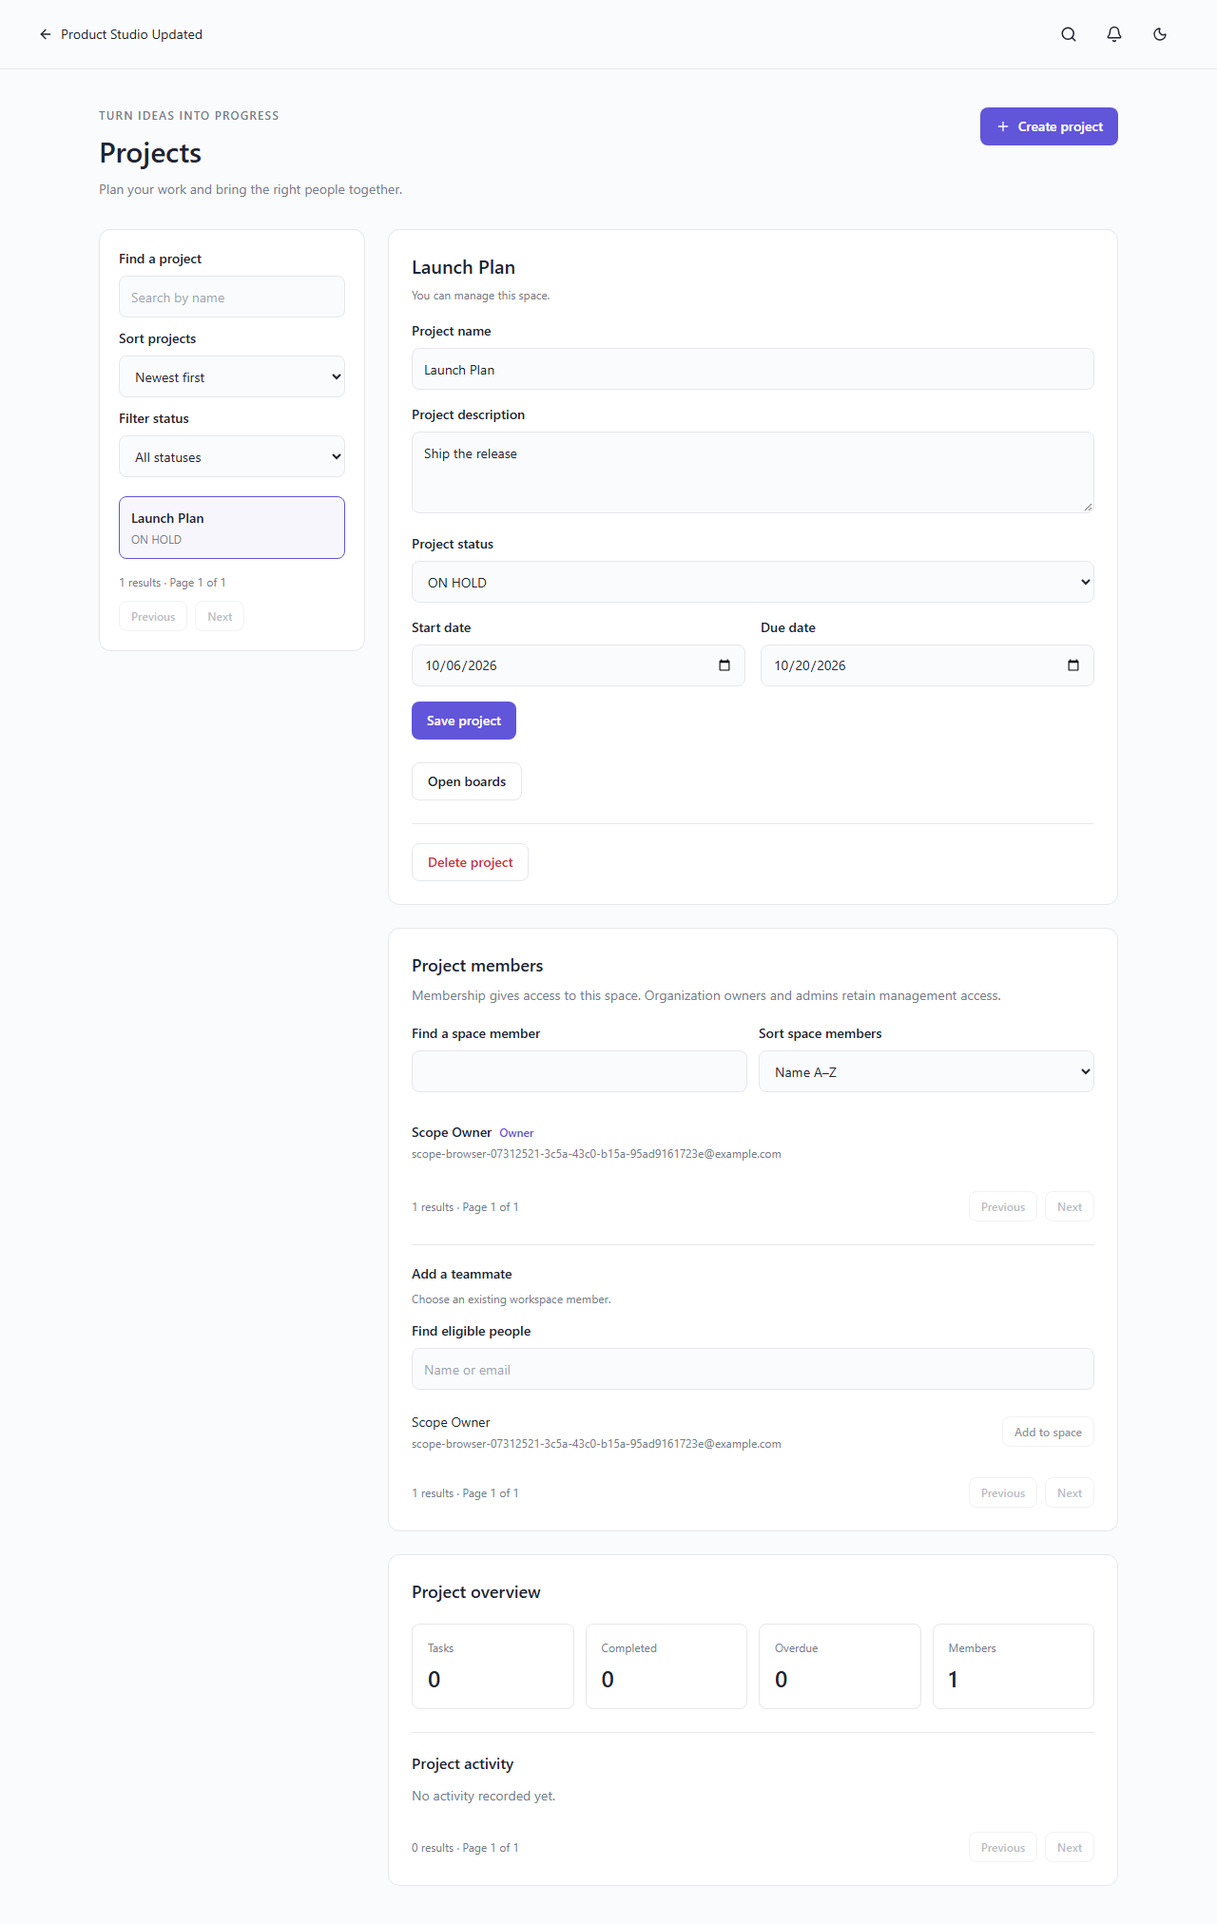
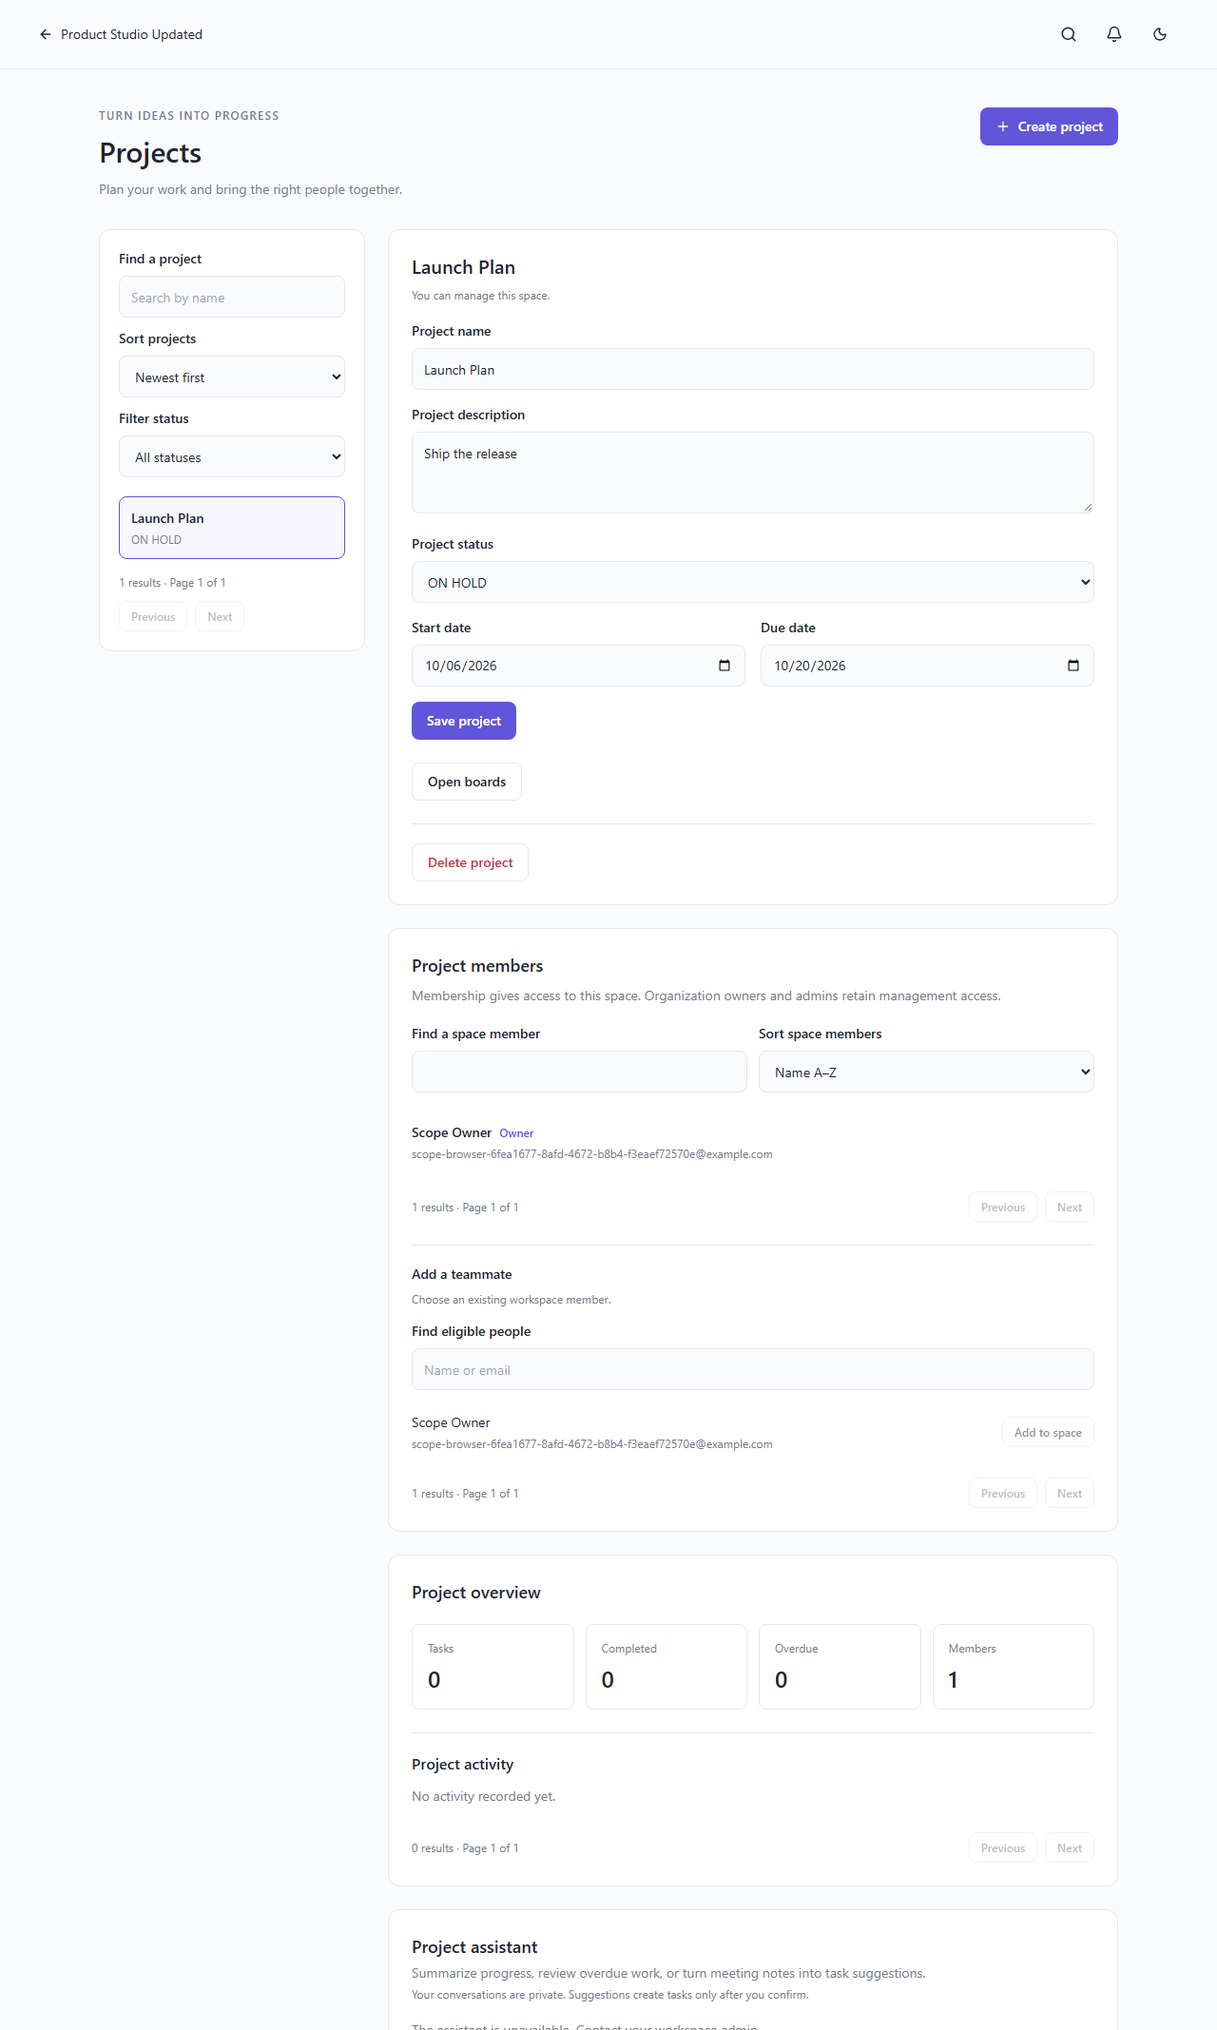
docs(ai): record verified private assistant milestone

diff --git a/docs/verification.md b/docs/verification.md
@@ -1,19 +1,19 @@
-# Phase 7 verification — 06/10/2026
+# Phase 8 verification — 06/10/2026
 
-Đã hoàn thành Phase 1–7 theo Requirements.md và luồng MVP ở mục 34. AI và production deployment đang tiếp tục.
+Đã hoàn thành implementation Phase 1–8 theo Requirements.md và luồng MVP ở mục 34. AI đã kiểm tra với provider fixtures; live provider smoke và production deployment đang tiếp tục.
 
-| Check                       | Kết quả                                                                                           |
-| --------------------------- | ------------------------------------------------------------------------------------------------- |
-| Prisma schema validation    | Pass, Prisma 7.10.0                                                                               |
-| SQL migrations              | Foundation + organization policy + invitation outbox/environment applied; Docker migration exit 0 |
-| TypeScript strict typecheck | Pass cho contracts, API, web                                                                      |
-| ESLint / Prettier           | Pass                                                                                              |
-| Production build            | Pass cho Next.js và NestJS                                                                        |
-| Unit/security tests         | 24 pass: auth, RBAC, contracts, mention parsing, encryption and attachment content validation     |
-| HTTP integration tests      | 75 pass on real PostgreSQL/Redis/MinIO/Mailpit                                                    |
-| Browser tests               | 9 verified on local builds and Linux Docker containers                                            |
-| Docker targets              | API, web, migrator, worker và source-built MinIO build thành công                                 |
-| Compose runtime             | API/PostgreSQL/Redis/MinIO/Mailpit healthy; web/worker chạy; init exit 0                          |
+| Check                       | Kết quả                                                                                                    |
+| --------------------------- | ---------------------------------------------------------------------------------------------------------- |
+| Prisma schema validation    | Pass, Prisma 7.10.0                                                                                        |
+| SQL migrations              | 10 checked-in migrations applied, including durable AI jobs; Docker migration exit 0                       |
+| TypeScript strict typecheck | Pass cho contracts, API, web                                                                               |
+| ESLint / Prettier           | Pass                                                                                                       |
+| Production build            | Pass cho Next.js và NestJS                                                                                 |
+| Unit/security tests         | 28 pass: AI adapters, auth, RBAC, contracts, mention parsing, encryption and attachment content validation |
+| HTTP integration tests      | 87 pass on real PostgreSQL/Redis/MinIO/Mailpit                                                             |
+| Browser tests               | 10 verified on local builds and Linux Docker containers                                                    |
+| Docker targets              | API, web, migrator, worker và source-built MinIO build thành công                                          |
+| Compose runtime             | API/PostgreSQL/Redis/MinIO/Mailpit healthy; web/worker chạy; init exit 0                                   |
 
 HTTP tests kiểm tra auth/rotation/replay/throttling, organization CRUD, cross-tenant isolation, role/owner protection, concurrent ownership transfer, invite duplicate/expiry/revoke/email mismatch/concurrent accept/reuse, email SMTP thật và ảnh giả MIME/oversize/private object. Browser kiểm tra auth/dark mode/mobile; create/settings/logo/delete organization; role/removal/transfer bằng hai tài khoản; email capture → matching-email registration → accept → replay rejection. Dialog dùng native focus trap/Escape và ID label riêng.
 
@@ -23,7 +23,7 @@ Stack hiện chạy ở web http://localhost:3100, API http://localhost:4000/api
 
 Sau khi người dùng khắc phục dung lượng ổ C, đã build và chạy lại các container Phase 2 thành công. Các build loại browser artifacts/screenshots khỏi context; runtime API chỉ cài dependencies backend/contracts. Không xóa volumes hoặc containers của dự án khác.
 
-Repository đã kết nối [GitHub FlowSync](https://github.com/itzBaowy/FlowSync), branch `main`; commit/push theo từng lát. CI Linux của code Phase 2 ở commit `160d2bf` [đã xanh](https://github.com/itzBaowy/FlowSync/actions/runs/37342707321). Các commit mới tự chạy CI; run của `ee3e656` đang in progress tại lần kiểm tra. Chưa provision cloud deployment. Cross-tab refresh coordination, password recovery/email verification và full bucket reconciliation còn ở các milestone hardening.
+Repository đã kết nối [GitHub FlowSync](https://github.com/itzBaowy/FlowSync), branch `main`; commit/push theo từng lát. CI Linux của code Phase 2 ở commit `160d2bf` [đã xanh](https://github.com/itzBaowy/FlowSync/actions/runs/37342707321). Các commit mới tự chạy CI; run của `cd83d20` đang in progress tại lần kiểm tra. Chưa provision cloud deployment. Cross-tab refresh coordination, password recovery/email verification và full bucket reconciliation còn ở các milestone hardening.
 
 Phase 3 verifies workspace/project CRUD, private memberships, persisted date invariants, ownership concurrency, public profiles, descendant cleanup, structural delete protection and actual overview data. Browser tests cover CRUD/mobile and two-account membership/owner transfer/access revocation. Delivery outboxes are isolated by NODE_ENV.
 
@@ -34,3 +34,5 @@ Phase 5 verifies authenticated Socket.IO, Redis fanout between API replicas, pos
 Phase 6 verifies scoped comments/mentions and version conflicts, transactional activity retention/rollback, private attachment upload/download/deletion/compensation, global search privacy, assignment scope and actual dashboard aggregates. The full browser suite passes on local production builds and Linux Docker containers. See [Phase 6](phase6.md).
 
 Phase 7 verifies real SMTP failure/retry/restart, deduplicated reminders/email, notification permission checks at delivery, scoped workspace/project alerts, invalid payload failures, environment retention and safe file cleanup. Docker worker starts all queues; CLI status runs inside container and all 9 browser flows pass again. See [Phase 7](phase7.md).
+
+Phase 8 verifies validated provider adapters, private bounded context, overdue priority sampling, durable queued requests, permission revocation, safe failure/retry, confirmation batch rollback and concurrent idempotency. All 10 browser flows pass on local builds and Docker; worker queue status is verified. No live LLM credentials were used. See [Phase 8](phase8.md).

diff --git a/README.md b/README.md
@@ -1,8 +1,8 @@
 # FlowSync
 
-A team collaboration platform bringing projects, Kanban boards, conversations, and a future AI assistant into one calm workspace. Built as a fullstack engineering portfolio with explicit tenant boundaries and production deployment in mind.
+A team collaboration platform bringing projects, Kanban boards, conversations, and a private AI assistant into one calm workspace. Built as a fullstack engineering portfolio with explicit tenant boundaries and production deployment in mind.
 
-**Current delivery: Phase 7 — durable background jobs; Phase 8 in progress.** Collaboration MVP, private task/project/workspace notifications, due reminders, email delivery and file cleanup now run with retry and operator recovery.
+**Current delivery: Phase 8 — private project assistant; Phase 9 in progress.** Summary/overdue analysis and meeting-note previews use validated, scoped context. Tasks are created only after user selection and explicit confirmation.
 
 ## Features shipped
 
@@ -20,6 +20,7 @@ A team collaboration platform bringing projects, Kanban boards, conversations, a
 - Global search across accessible tasks, projects, organization members and comments. Assigned task filters and actual dashboard counts, recent projects/activity, task completion and priority charts.
 - Single-use, seven-day invitations with matching-email acceptance. Durable encrypted delivery outbox, BullMQ retry worker and local Mailpit SMTP capture.
 - Transactional notification email outboxes and versioned due reminders; file cleanup workers, scoped retention, failed-job status and manual recovery commands. See [Phase 7 operations](docs/phase7.md).
+- Private queued AI requests with OpenAI/Gemini adapters, strict output validation, bounded project context and atomic confirmed task creation. See [Phase 8](docs/phase8.md); live provider credential smoke testing remains pending.
 - PostgreSQL + Prisma 7 schema for the complete planned domain, checked-in initial migration.
 - Docker Compose PostgreSQL, Redis, private MinIO bucket, Mailpit, migration job, frontend, backend and worker containers. Random local secrets generated by setup.
 - Security unit tests, real-service HTTP integration tests, browser account/organization/invitation tests and CI workflow.
@@ -35,6 +36,7 @@ Screenshots are generated by `npm run test:browser` from the running application
 ![Invitation acceptance](docs/screenshots/invitation.png)
 ![Project management](docs/screenshots/projects.png)
 ![Kanban board](docs/screenshots/kanban.png)
+![AI suggestion confirmation on mobile](docs/screenshots/ai-assistant-mobile.png)
 
 ## Architecture
 
@@ -110,7 +112,9 @@ Select **Open boards** inside a project to create a board with four default colu
 | SMTP_URL / EMAIL_FROM                             | SMTP transport and sender; blank SMTP_URL uses localhost Mailpit      |
 | EMAIL_ENCRYPTION_KEY                              | 64 hex characters for AES-256-GCM invitation delivery encryption      |
 | MAILPIT_SMTP_PORT / MAILPIT_HTTP_PORT             | Local email capture ports (1025 / 8025)                               |
-| OPENAI_API_KEY / GEMINI_API_KEY / GOOGLE_*        | Reserved for later phases, currently unused                           |
+| AI_PROVIDER / AI_MODEL                            | disabled (default), openai or gemini; explicit model when enabled     |
+| OPENAI_API_KEY / GEMINI_API_KEY                   | Key for the selected assistant provider                               |
+| GOOGLE_*                                          | Reserved OAuth configuration, currently unused                        |
 
 ## Docker setup
 
@@ -183,7 +187,7 @@ HTTP tests require local PostgreSQL/Redis/MinIO/Mailpit and deployed migrations.
 
 Unit tests cover auth boundaries, RBAC and encrypted invitation payloads. HTTP tests add tenant isolation, role/owner invariants, concurrent transfer/acceptance, invitation expiry/reuse/revocation, actual SMTP delivery and hostile image uploads. Browser tests cover desktop/mobile organization management, two-account role changes, SMTP invitations, matching-email registration and replay rejection.
 
-Phase 7 test suite: **24 unit + 75 HTTP integration + 9 browser tests**. See [verification.md](docs/verification.md) for verified runtime results.
+Phase 8 test suite: **28 unit + 87 HTTP integration + 10 browser tests**. See [verification.md](docs/verification.md) for verified runtime results.
 
 ## System design decisions and challenges
 
@@ -191,6 +195,6 @@ Modular monolith keeps tenant authorization and transactions understandable. Org
 
 ## Production deployment and future improvements
 
-[Deployment notes](docs/deployment.md) describe TLS/cookie settings, migration sequencing, SMTP/storage credentials, backups and rollout checks. CI is included; cloud deployment is not provisioned. Next steps: AI assistant → production hardening/deployment. Follow [roadmap.md](docs/roadmap.md).
+[Deployment notes](docs/deployment.md) describe TLS/cookie settings, migration sequencing, SMTP/storage credentials, backups and rollout checks. CI is included; cloud deployment is not provisioned. Next steps: production hardening/deployment and live provider smoke testing. Follow [roadmap.md](docs/roadmap.md).
 
 Use small Conventional Commits, e.g. `feat(members): add atomic ownership transfer`. Changes are committed in functional slices and pushed to `main` after each commit. Setup only configures the environment.

diff --git a/docs/phase8.md b/docs/phase8.md
@@ -1,0 +1,36 @@
+# Phase 8 — Private project assistant
+
+Hoàn thành implementation ngày 06/10/2026: 28 unit tests, 87 HTTP integration tests và 10 browser flows đạt trên local production builds và Docker Linux. Migration `20261006000700_ai_jobs` lưu private conversation, durable request, lease và confirmation result. Worker container chạy thêm AI queue; status/retry CLI hỗ trợ queue này.
+
+## Configuration
+
+Assistant mặc định tắt. Chọn `AI_PROVIDER=openai` hoặc `gemini`, đặt `AI_MODEL` và key tương ứng `OPENAI_API_KEY` / `GEMINI_API_KEY`, rồi restart API/worker. Model phải được cấu hình rõ ràng; không có model mặc định. Provider disabled trả 503 trước khi tạo request. Không cần key để chạy ứng dụng hoặc test suite.
+
+OpenAI dùng [Responses structured outputs](https://developers.openai.com/api/docs/guides/structured-outputs?api-mode=responses); Gemini dùng [Interactions API](https://ai.google.dev/api/interactions-api). Native fetch chỉ gọi fixed official endpoints, không follow redirects, timeout 45 giây, giới hạn output và `store: false`. Không có tool calling hoặc provider-controlled database action. Kết quả luôn qua strict Zod validation, kể cả khi provider hỗ trợ JSON schema.
+
+## Context and privacy
+
+Summary, overdue analysis và meeting-note suggestions chỉ dùng project mà requester hiện còn quyền đọc. Request/history riêng từng user/project; project member khác không đọc được conversation. Worker kiểm tra lại memberships trước generation và trước khi lưu result.
+
+Context gồm project metadata, tối đa 40 active tasks, 60 activity entries trong 24 giờ, 100 eligible member public profiles và column counts. Task descriptions cắt ở 500 ký tự, project description ở 1.000. Overdue mode ưu tiên open overdue tasks theo priority/deadline; completed tasks không chiếm sample. Counts và sampling flags giúp assistant nói rõ giới hạn. Không gửi member emails, credentials, attachments hoặc full comment bodies. Project content và meeting notes được đánh dấu là untrusted data trong instructions.
+
+References chỉ được trỏ đến task IDs trong context; assignee IDs phải thuộc eligible members. Summary/overdue không được trả task suggestions. Provider refusals, incomplete responses, unknown fields hoặc fabricated IDs bị từ chối. Logs/job payload không chứa prompt, response, key hoặc provider error body.
+
+## Durable requests and explicit confirmation
+
+API ghi conversation/request trong cùng transaction, rồi worker nhận opaque run ID qua BullMQ. Giới hạn 3 pending/running requests và 100 requests/ngày cho từng user/project; endpoint có rate limit. AI queue retry 3 attempts, exponential backoff từ 30 giây. Atomic lease ngăn duplicate execution; stale worker không ghi đè result. Revoked access hủy run. Permanent validation/provider errors đánh dấu FAILED; transient failures có thể retry bằng operator CLI.
+
+```powershell
+npm run jobs:status
+npm run jobs:retry -- ai <run-id>
+```
+
+Meeting notes chỉ tạo preview. User chọn suggestions, board và destination column, sau đó xác nhận dialog. API yêu cầu literal `confirmed: true`, rechecks current parent permissions và dùng cùng task creation transaction như Kanban. Toàn bộ selected tasks, assignments, reminders, notifications, activity và confirmation marker commit cùng nhau. Một suggestion không hợp lệ làm rollback cả batch. Concurrent confirmation tạo một batch; replay trả lại task IDs đã tạo.
+
+Endpoints dưới `/api/projects/:projectId/ai`: `GET availability`, `GET/POST requests`, `GET requests/:id`, `POST requests/:id/confirm`. History có pagination; UI poll pending results, hỗ trợ mobile và luôn hiển thị lỗi an toàn.
+
+## Verification limits
+
+Provider adapters được kiểm tra bằng mocked HTTP responses. HTTP suite dùng provider fixture với real PostgreSQL/Redis queues để kiểm tra private scope, revocation, malformed results, retry, rollback và concurrent confirmation. Browser fixture thay generation response; confirmation vẫn gọi API thật và task hiện trên Kanban. Cancel dialog không tạo task. Screenshot ở [AI mobile](screenshots/ai-assistant-mobile.png).
+
+Chưa gọi provider bằng live credentials và chưa kiểm tra chất lượng/cost trên model thực tế. Operator cần smoke test model được chọn trước production; không coi fixture output là bằng chứng về chất lượng AI. Storage/retention của upstream provider phải được đánh giá theo account policy của deployment, ngoài cấu hình `store: false` trong request.

diff --git a/docs/roadmap.md b/docs/roadmap.md
@@ -9,7 +9,7 @@
 | 5 — Realtime (hoàn thành)            | Socket.IO auth + Redis adapter, board rooms, notification, presence           | Hai browser nhận update; reconnect/gap recovery; room permission + token expiry đã kiểm tra      |
 | 6 — Collaboration / MVP (hoàn thành) | Comments/mentions, activity, attachments, search, inbox, personal tasks       | Flow mục 34 chạy end-to-end; mention notifications, download permission, MIME/size checks đạt    |
 | 7 — Queue hardening (hoàn thành)     | Notification/due/file workers, retry, failed-job tooling, scoped maintenance  | SMTP recovery, duplicate jobs, stale versions, private recipients và Docker đã kiểm tra          |
-| 8 — AI                               | Provider abstraction, summary/overdue, meeting-note suggestions               | Validated JSON, context tenant scoped, confirmation trước task creation                          |
+| 8 — AI (implementation hoàn thành)   | Provider abstraction, summary/overdue, meeting-note suggestions               | JSON/context/confirmation/retry đạt; live provider smoke cần configured key                      |
 | 9 — Production                       | Staging/prod deploy, TLS, monitoring, backups, security review                | Restore rehearsal, migration rollback plan, load test, deployment smoke test                     |
 
 Mỗi phase làm theo module, có migration khi thay đổi dữ liệu và giữ toàn bộ checks trước đó xanh. Phase 1 không expose endpoint CRUD cho domain còn lại chỉ vì schema đã có entity. Không tự động publish/deploy khi chưa có môi trường và cấu hình thật.
